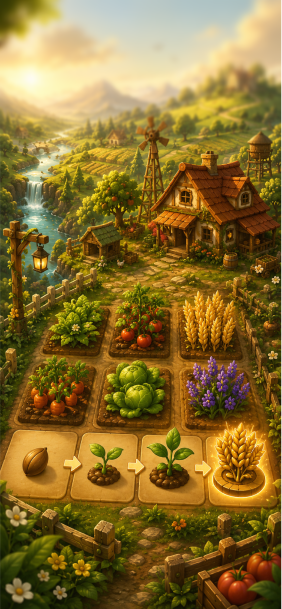
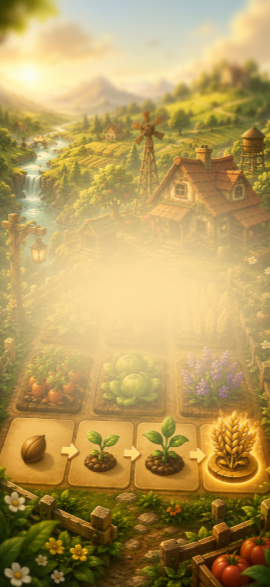
add

diff --git a/src/css/main.css b/src/css/main.css
@@ -1,0 +1,42 @@
+.home-section{
+    background-image: url("/img/home/mob.png");
+    background-repeat: no-repeat;
+    background-position: top center;
+    background-size: cover;
+    height: 812px;
+}
+.home-wrapper{
+    margin-top: 260px;
+    width: 333px;
+        height: 187px;
+        display: flex;
+        flex-direction: column;
+        align-items: center;
+        gap: 30px;
+        margin-left: auto;
+        margin-right: auto;
+}
+
+.home-title{
+    font-family: "Quicksand", sans-serif;
+        font-weight: 700;
+        font-size: 26px;
+        text-align: center;
+        color: #000;
+}
+@media only screen and (min-width: 1440px) {
+.home-section{
+    background-image: url("/img/home/desk.png");
+height: 960px;
+}
+.home-wrapper{
+    margin-top: 270px;
+width: 900px;
+    height: 282px;
+        gap: 50px;
+}
+
+.home-title{
+font-size: 66px;
+}    
+}

diff --git a/src/css/base.css b/src/css/base.css
@@ -12,3 +12,8 @@ h2{
     color: #000;
     margin-bottom: 30px;
 }
+@media only screen and (min-width: 1440px) {
+  body{
+    font-size: 20px;
+  }
+}

diff --git a/src/css/container.css b/src/css/container.css
@@ -9,7 +9,7 @@
 @media only screen and (min-width: 1440px) {
   .container {
     max-width: 1440px;
-    padding: 50px 73px;
+    padding: 50px 46px;
   }
 
 }